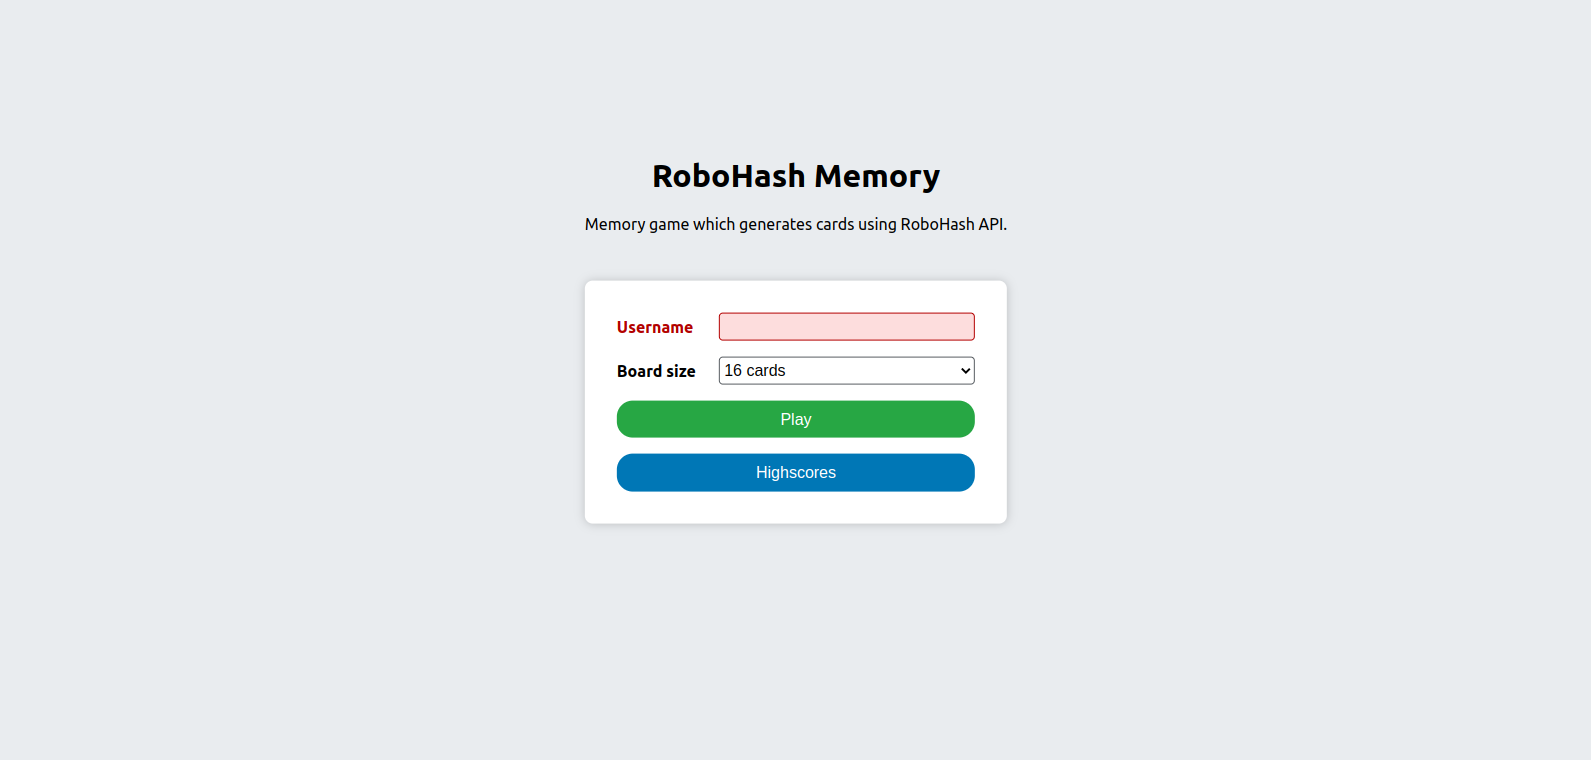
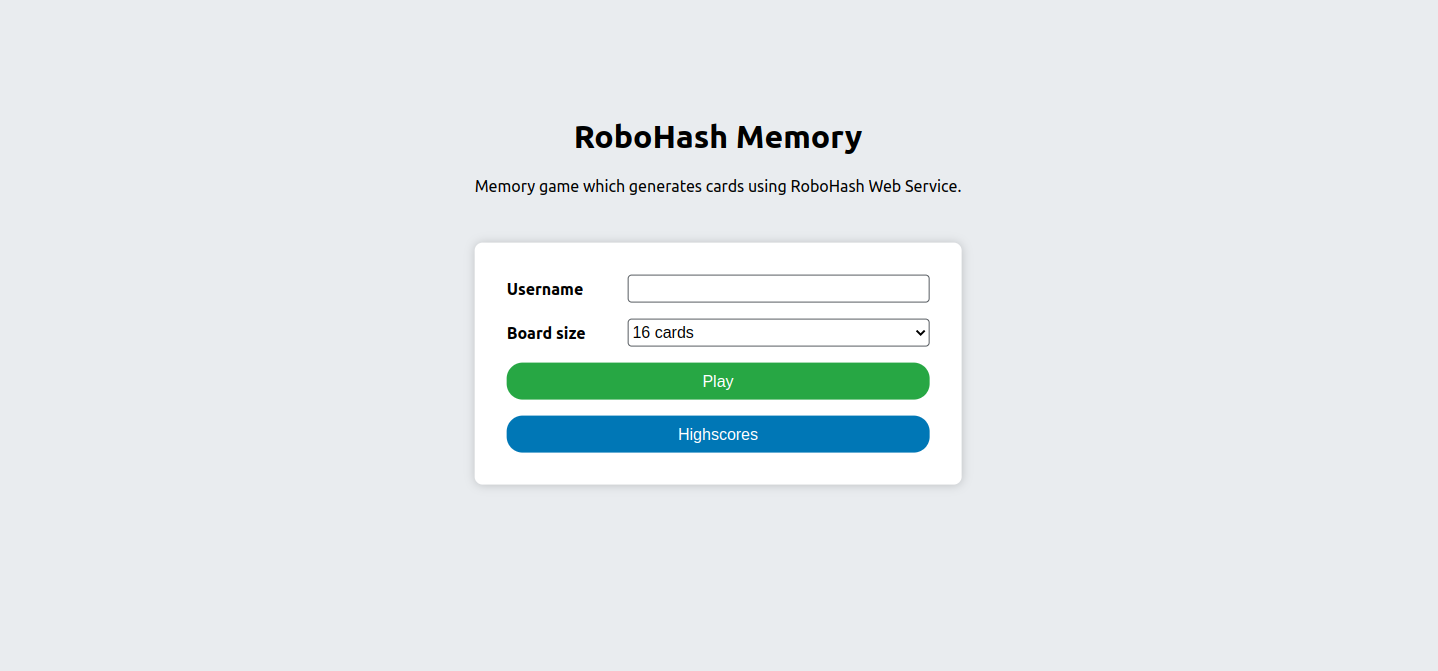
Updated homepage game description text

Changed region(s): [[0.3366, 0.3577, 0.6732, 0.7154], [0.3366, 0.1788, 0.6732, 0.3279]]

diff --git a/src/pages/Home/Home.js b/src/pages/Home/Home.js
@@ -6,7 +6,7 @@ const Home = () => {
     <div className={styles.Container}>
       <div className={styles.Content}>
         <h1 className={styles.Heading}>RoboHash Memory</h1>
-        <p className={styles.Description}>Memory game which generates cards using RoboHash API.</p>
+        <p className={styles.Description}>Memory game which generates cards using RoboHash Web Service.</p>
         <GameMenu />
       </div>
     </div>
